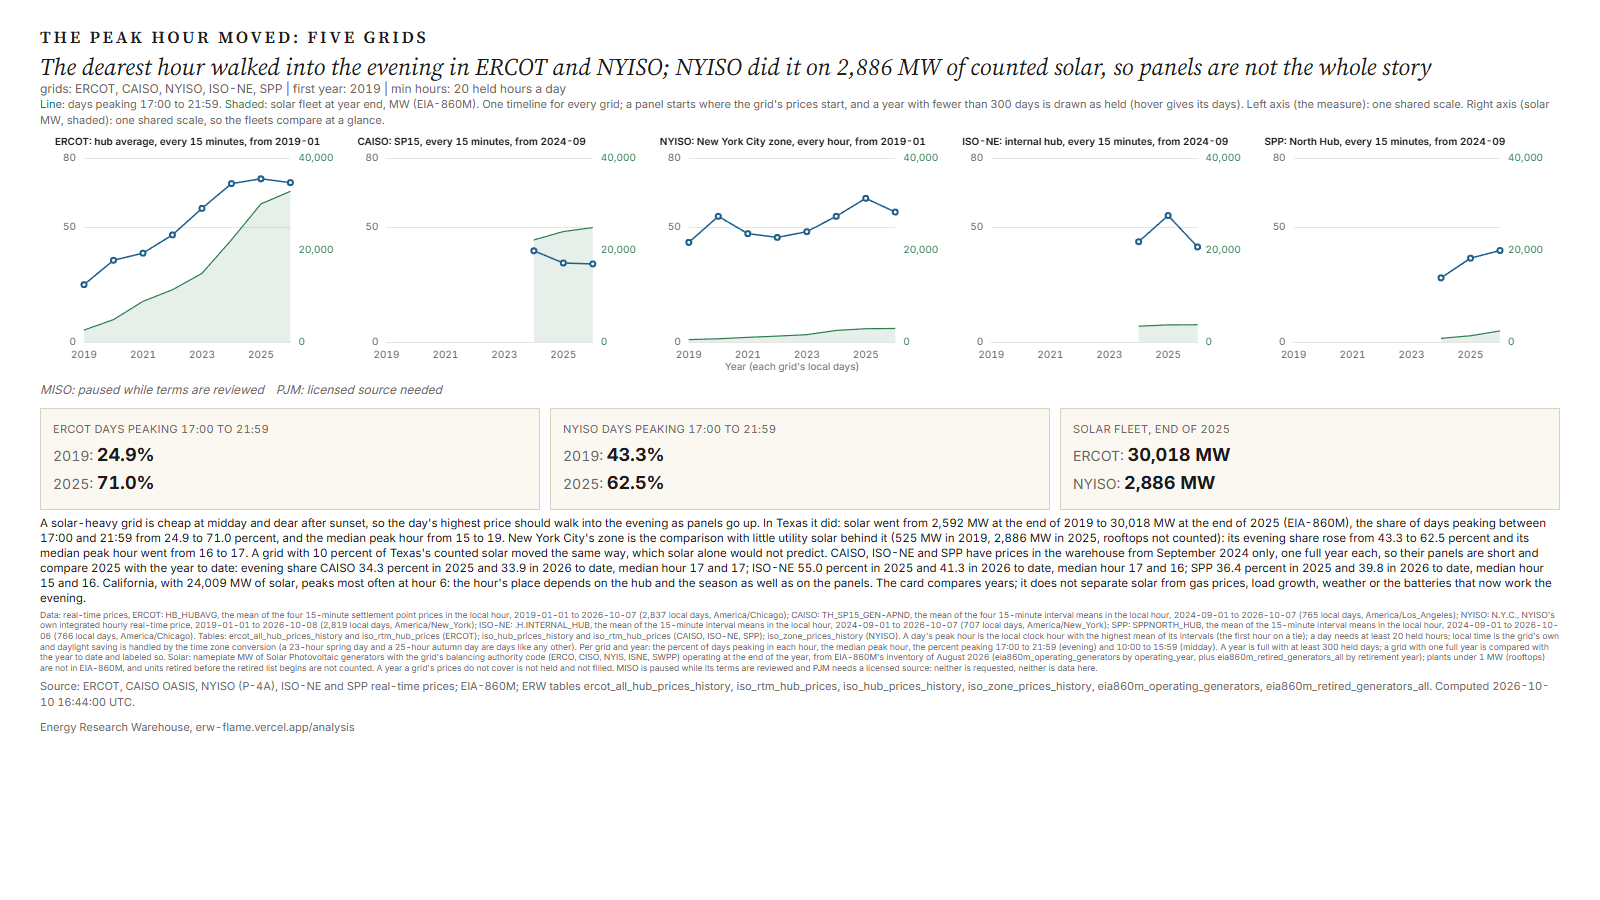
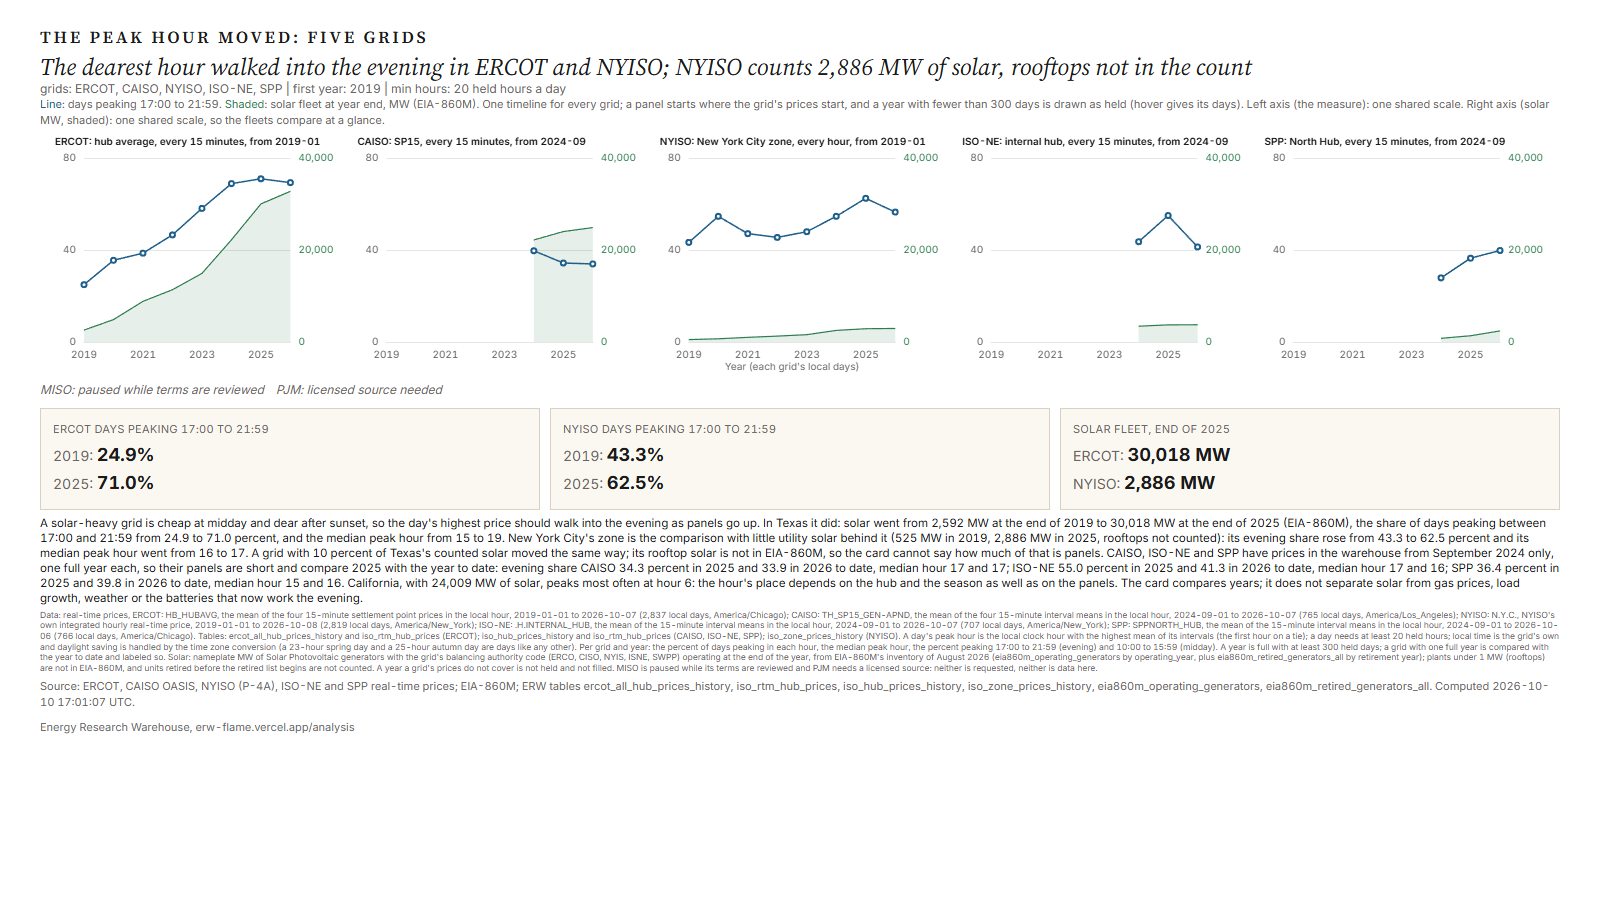
Session 182: shared axes cut at their middle; the peak card says what is counted, not what it implies
The peak hour card's subtitle and paragraph state New York's counted solar and that rooftops are not in EIA-860M,
in place of a reading the design does not carry; one word of the lunch card's paragraph. Both cards recomputed,
their four renders made again on the final build.

Changed region(s): [[0.0312, 0.5911, 0.9688, 0.6844], [0.4688, 0.0622, 0.9062, 0.0933]]

diff --git a/site/components/analysis/MultiChart.tsx b/site/components/analysis/MultiChart.tsx
@@ -70,8 +70,9 @@ export function multiOption(spec: MultiSpec, measureKey: string, W: number, H: n
       axisLabel: { ...label, show: rows ? i === P.length - 1 : true, hideOverlap: true }, axisTick: { show: false }, axisLine: { lineStyle: { color: RULE } },
       name: rows ? (i === P.length - 1 ? spec.x_label : "") : (i === Math.floor(P.length / 2) ? spec.x_label : ""), nameLocation: "middle", nameGap: 20, nameTextStyle: label })),
     yAxis: P.flatMap((_, i) => [
-      { type: "value", gridIndex: i, position: "left", max: measMax, splitNumber: 2, axisLabel: label, splitLine: { lineStyle: { color: RULE } } },
-      { type: "value", gridIndex: i, position: "right", max: fleetMax, splitNumber: 2, axisLabel: { ...label, color: FLEET }, splitLine: { show: false } },
+      // a shared axis is cut in two at its middle, so that its three labels are 0, the middle and the top in every panel
+      { type: "value", gridIndex: i, position: "left", max: measMax, interval: measMax ? measMax / 2 : undefined, splitNumber: 2, axisLabel: label, splitLine: { lineStyle: { color: RULE } } },
+      { type: "value", gridIndex: i, position: "right", max: fleetMax, interval: fleetMax ? fleetMax / 2 : undefined, splitNumber: 2, axisLabel: { ...label, color: FLEET }, splitLine: { show: false } },
     ]),
     series: P.flatMap((p, i) => [
       { name: `${p.words}: ${m.label}`, type: "line", xAxisIndex: i, yAxisIndex: 2 * i, data: p.values[m.key] ?? [], showSymbol: spec.x.length <= 12, symbolSize: 5,

diff --git a/site/public/findings/peak_hour_grids.py b/site/public/findings/peak_hour_grids.py
@@ -198,8 +198,8 @@ def verdict(n):
     flat = [g for g in two if g not in up and g not in down]
     small = [g for g in up if n[f"{g}_full1_solar_mw"] < 5000]
     if up and small and not flat and not down:
-        return (f"The dearest hour walked into the evening in {words_list(up)}; {words_list(small)} did it on "
-                f"{fmt(max(n[f'{g}_full1_solar_mw'] for g in small), 0)} MW of counted solar, so panels are not the whole story")
+        return (f"The dearest hour walked into the evening in {words_list(up)}; {words_list(small)} counts "
+                f"{fmt(max(n[f'{g}_full1_solar_mw'] for g in small), 0)} MW of solar, rooftops not in the count")
     if up and flat:
         return f"In {words_list(up)} the dearest hour walked into the evening as solar grew; in {words_list(flat)} it did not move"
     if up and down:
@@ -255,7 +255,7 @@ def card(rows, params, meta):
     ny_d = n["nyiso_full1_evening_pct"] - n["nyiso_full0_evening_pct"]
     ny_way = "rose" if ny_d > 1 else "fell" if ny_d < -1 else "held"
     ny_share = 100.0 * n["nyiso_full1_solar_mw"] / n["ercot_full1_solar_mw"]
-    ny_read = (f" A grid with {fmt(ny_share, 0)} percent of Texas's counted solar moved the same way, which solar alone would not predict." if ny_d > 10 and ny_share < 25 else "")
+    ny_read = (f" A grid with {fmt(ny_share, 0)} percent of Texas's counted solar moved the same way; its rooftop solar is not in EIA-860M, so the card cannot say how much of that is panels." if ny_d > 10 and ny_share < 25 else "")
     short_bits = "; ".join(f"{GRID[g]['words']} {fmt(n[f'{g}_full1_evening_pct'], 1)} percent in {n[f'{g}_full1_year']} and {fmt(n[f'{g}_this_evening_pct'], 1)} in {n[f'{g}_this_year']} to date, "
                            f"median hour {fmt(n[f'{g}_full1_median_hour'], 0)} and {fmt(n[f'{g}_this_median_hour'], 0)}" for g in short if n[f"{g}_full1_year"] is not None)
     why = (f"A solar-heavy grid is cheap at midday and dear after sunset, so the day's highest price should walk into the evening as panels go up. In Texas it did: "

diff --git a/warehouse/analysis/findings/peak_hour_grids.py b/warehouse/analysis/findings/peak_hour_grids.py
@@ -198,8 +198,8 @@ def verdict(n):
     flat = [g for g in two if g not in up and g not in down]
     small = [g for g in up if n[f"{g}_full1_solar_mw"] < 5000]
     if up and small and not flat and not down:
-        return (f"The dearest hour walked into the evening in {words_list(up)}; {words_list(small)} did it on "
-                f"{fmt(max(n[f'{g}_full1_solar_mw'] for g in small), 0)} MW of counted solar, so panels are not the whole story")
+        return (f"The dearest hour walked into the evening in {words_list(up)}; {words_list(small)} counts "
+                f"{fmt(max(n[f'{g}_full1_solar_mw'] for g in small), 0)} MW of solar, rooftops not in the count")
     if up and flat:
         return f"In {words_list(up)} the dearest hour walked into the evening as solar grew; in {words_list(flat)} it did not move"
     if up and down:
@@ -255,7 +255,7 @@ def card(rows, params, meta):
     ny_d = n["nyiso_full1_evening_pct"] - n["nyiso_full0_evening_pct"]
     ny_way = "rose" if ny_d > 1 else "fell" if ny_d < -1 else "held"
     ny_share = 100.0 * n["nyiso_full1_solar_mw"] / n["ercot_full1_solar_mw"]
-    ny_read = (f" A grid with {fmt(ny_share, 0)} percent of Texas's counted solar moved the same way, which solar alone would not predict." if ny_d > 10 and ny_share < 25 else "")
+    ny_read = (f" A grid with {fmt(ny_share, 0)} percent of Texas's counted solar moved the same way; its rooftop solar is not in EIA-860M, so the card cannot say how much of that is panels." if ny_d > 10 and ny_share < 25 else "")
     short_bits = "; ".join(f"{GRID[g]['words']} {fmt(n[f'{g}_full1_evening_pct'], 1)} percent in {n[f'{g}_full1_year']} and {fmt(n[f'{g}_this_evening_pct'], 1)} in {n[f'{g}_this_year']} to date, "
                            f"median hour {fmt(n[f'{g}_full1_median_hour'], 0)} and {fmt(n[f'{g}_this_median_hour'], 0)}" for g in short if n[f"{g}_full1_year"] is not None)
     why = (f"A solar-heavy grid is cheap at midday and dear after sunset, so the day's highest price should walk into the evening as panels go up. In Texas it did: "

diff --git a/site/public/findings/batteries_lunch_grids.py b/site/public/findings/batteries_lunch_grids.py
@@ -382,7 +382,7 @@ def card(rows, params, meta):
     why = (f"A battery that sells into a spike makes the spike smaller, so a big enough fleet should eat its own lunch. Texas has the fleet, "
            f"{fmt(n['ercot_fleet_first_mw'], 0)} MW in {n['ercot_fleet_first_month']} and {fmt(n['ercot_fleet_last_mw'], 0)} MW in {n['ercot_fleet_last_month']} (EIA-860M), "
            f"and its worst-interval multiple went from {fmt(n['ercot_multiple_first'], 1)}x in {y0} to {fmt(n['ercot_multiple_last'], 1)}x in {y1}, its hours at or above "
-           f"USD 1,000 from {fmt(n['ercot_hours1000_first'], 0)} to {fmt(n['ercot_hours1000_last'], 0)}. New York is the control nobody planned: "
+           f"USD 1,000 from {fmt(n['ercot_hours1000_first'], 0)} to {fmt(n['ercot_hours1000_last'], 0)}. New York is the comparison nobody planned: "
            f"{fmt(n['nyiso_fleet_last_mw'], 0)} MW of batteries in {n['nyiso_fleet_last_month']}, and a multiple that {ny_way} from {fmt(n['nyiso_multiple_first'], 1)}x in {ny0} to "
            f"{fmt(n['nyiso_multiple_last'], 1)}x in {ny1} (hourly prices), with {fmt(n['nyiso_hours1000_first'], 0)} and then {fmt(n['nyiso_hours1000_last'], 0)} hours at or above USD 1,000. "
            f"California spoils the story: its fleet grew from {fmt(n['caiso_fleet_first_mw'], 0)} MW in {n['caiso_fleet_first_month']} to {fmt(n['caiso_fleet_last_mw'], 0)} MW, "

diff --git a/warehouse/analysis/findings/batteries_lunch_grids.py b/warehouse/analysis/findings/batteries_lunch_grids.py
@@ -382,7 +382,7 @@ def card(rows, params, meta):
     why = (f"A battery that sells into a spike makes the spike smaller, so a big enough fleet should eat its own lunch. Texas has the fleet, "
            f"{fmt(n['ercot_fleet_first_mw'], 0)} MW in {n['ercot_fleet_first_month']} and {fmt(n['ercot_fleet_last_mw'], 0)} MW in {n['ercot_fleet_last_month']} (EIA-860M), "
            f"and its worst-interval multiple went from {fmt(n['ercot_multiple_first'], 1)}x in {y0} to {fmt(n['ercot_multiple_last'], 1)}x in {y1}, its hours at or above "
-           f"USD 1,000 from {fmt(n['ercot_hours1000_first'], 0)} to {fmt(n['ercot_hours1000_last'], 0)}. New York is the control nobody planned: "
+           f"USD 1,000 from {fmt(n['ercot_hours1000_first'], 0)} to {fmt(n['ercot_hours1000_last'], 0)}. New York is the comparison nobody planned: "
            f"{fmt(n['nyiso_fleet_last_mw'], 0)} MW of batteries in {n['nyiso_fleet_last_month']}, and a multiple that {ny_way} from {fmt(n['nyiso_multiple_first'], 1)}x in {ny0} to "
            f"{fmt(n['nyiso_multiple_last'], 1)}x in {ny1} (hourly prices), with {fmt(n['nyiso_hours1000_first'], 0)} and then {fmt(n['nyiso_hours1000_last'], 0)} hours at or above USD 1,000. "
            f"California spoils the story: its fleet grew from {fmt(n['caiso_fleet_first_mw'], 0)} MW in {n['caiso_fleet_first_month']} to {fmt(n['caiso_fleet_last_mw'], 0)} MW, "
